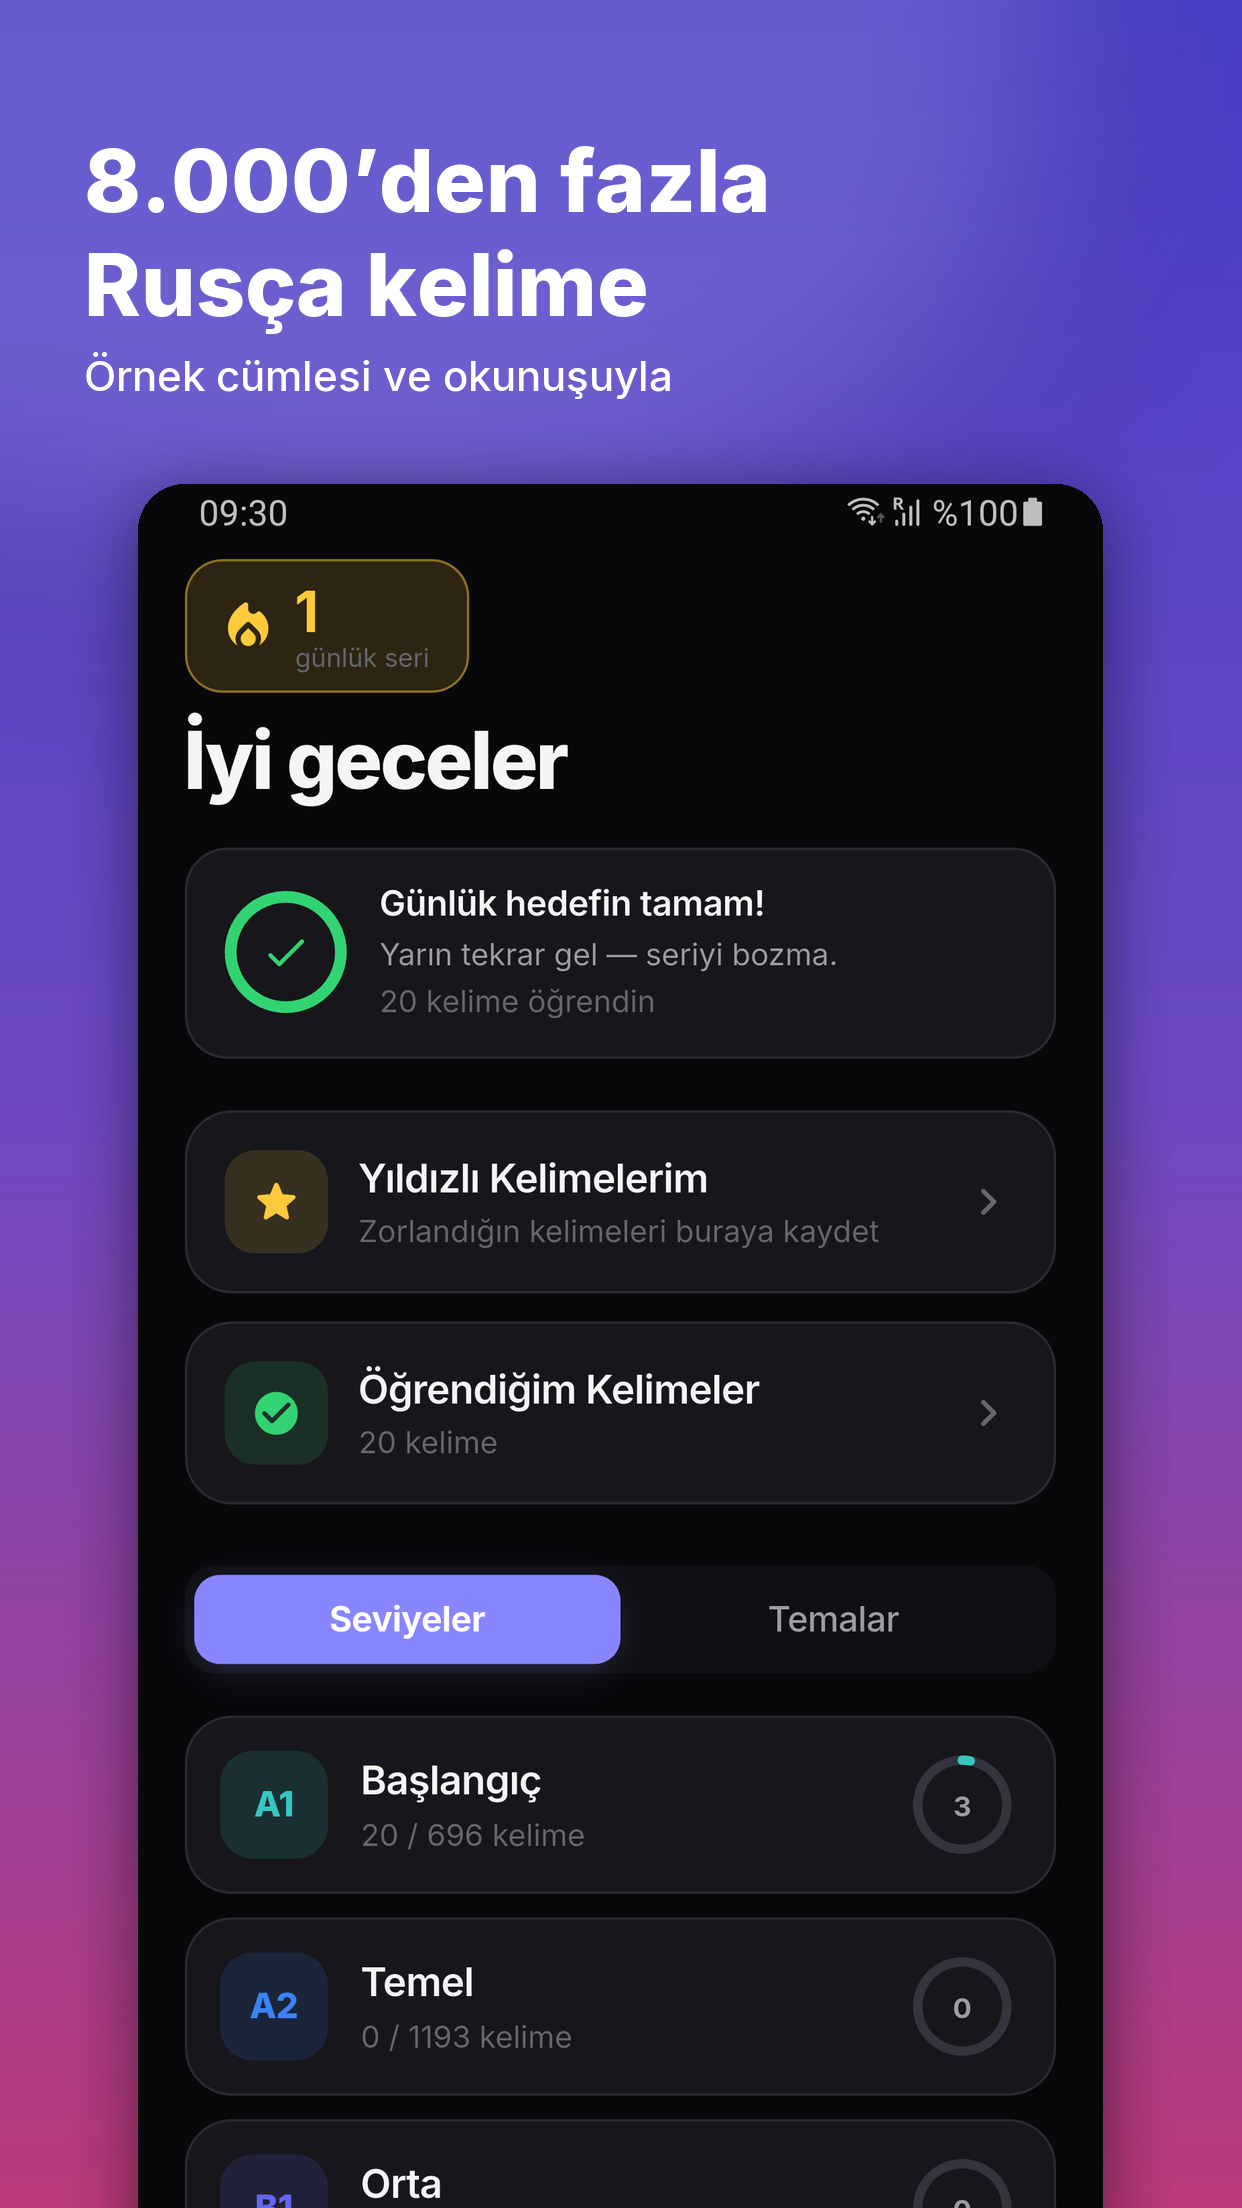
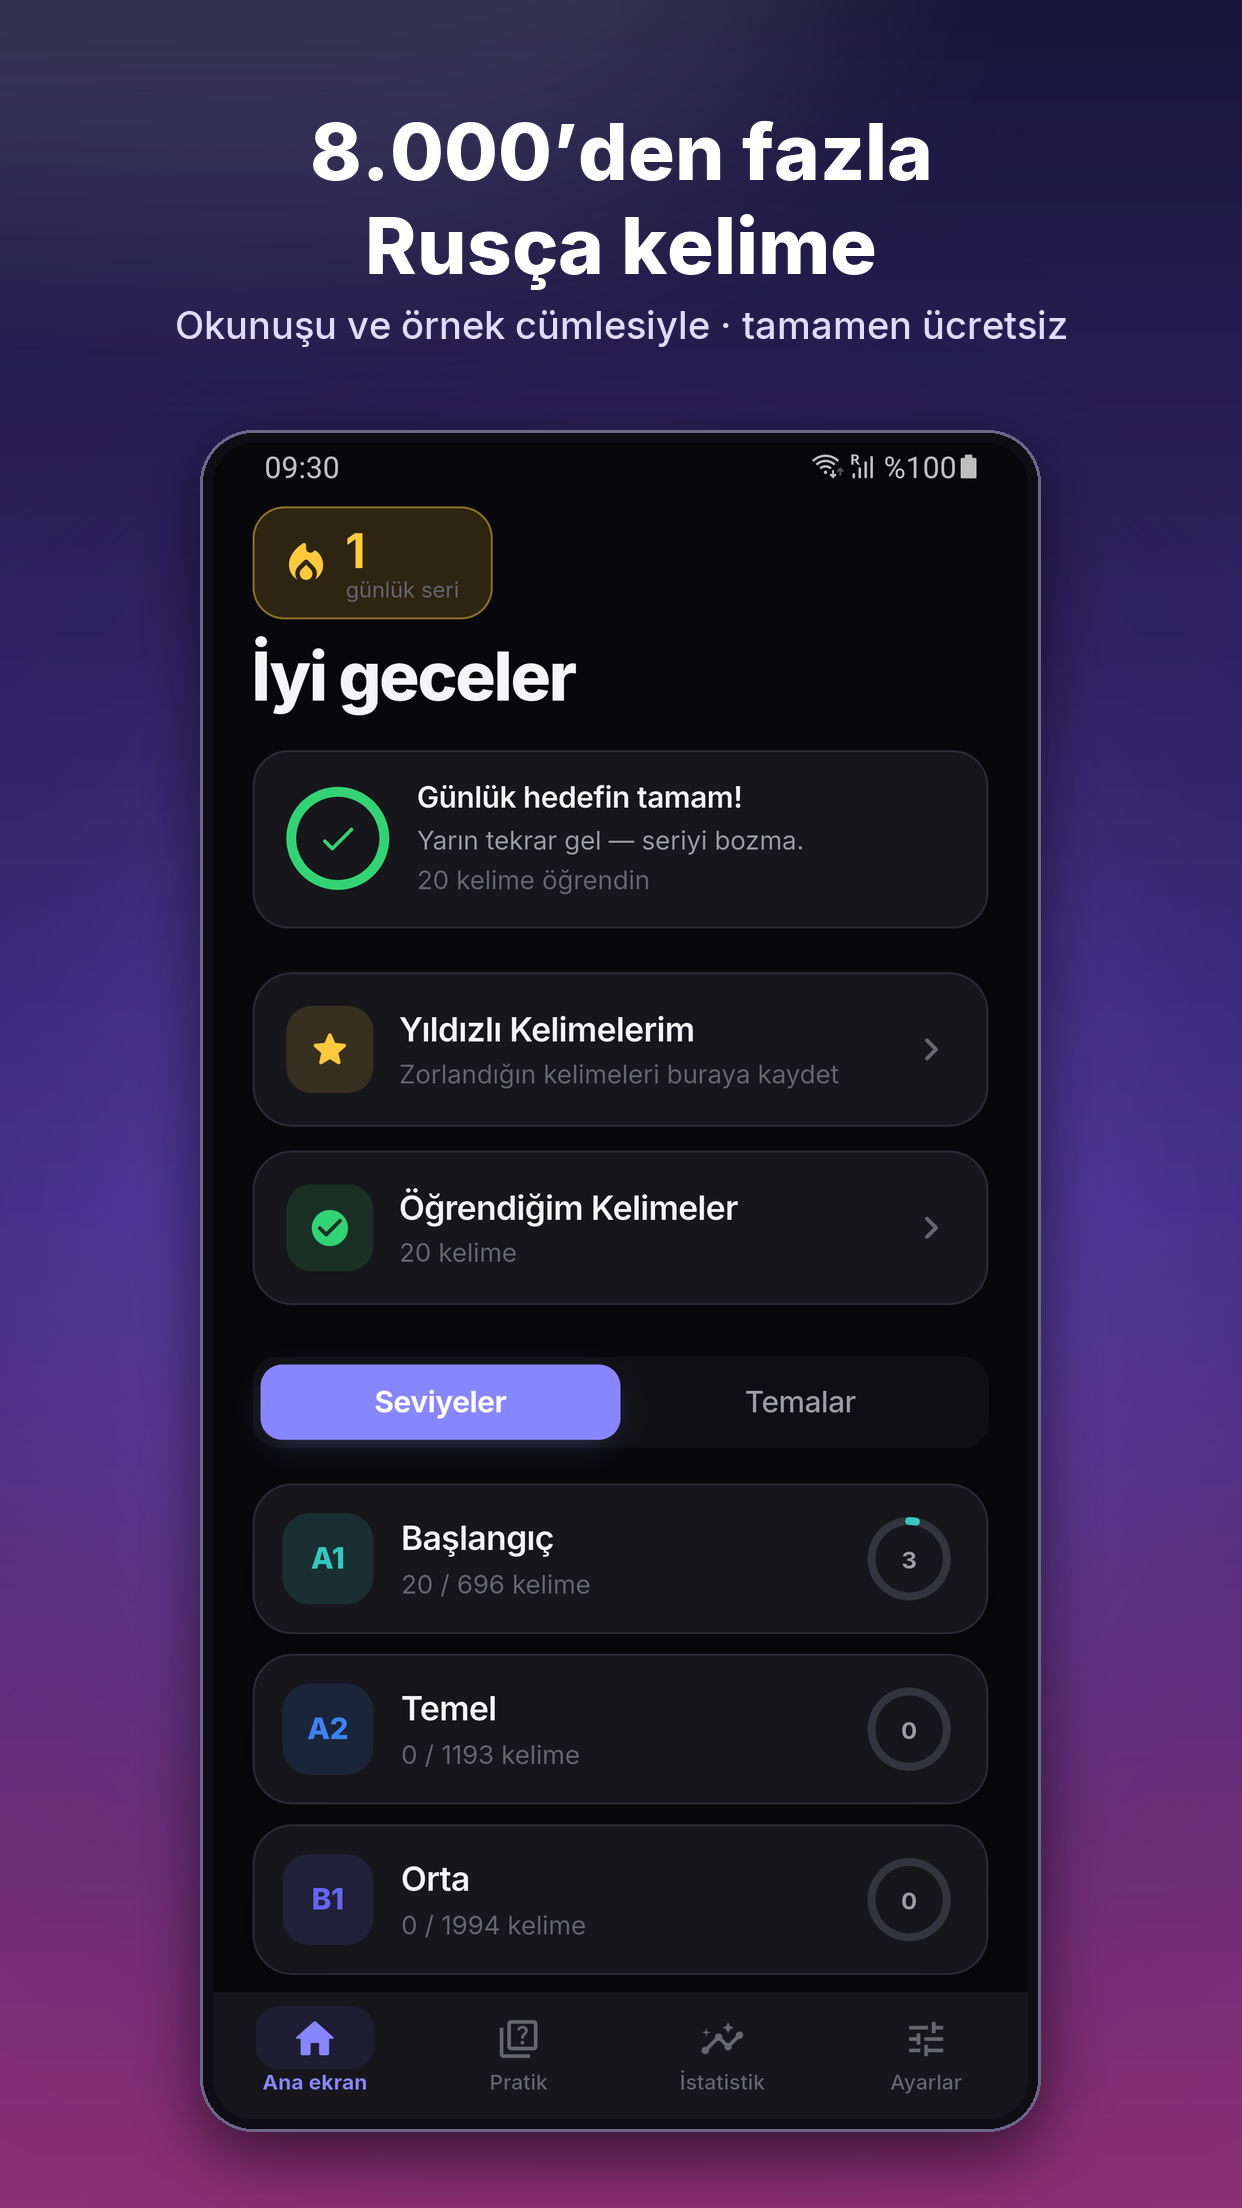
Magaza gorsellerini yeniden uret: tam ekran ve telefon cercevesi
Onceki ciktilarda telefon gorseli alttan kirpiliyordu, ekranin tamami
gorunmuyordu. Artik telefon metinden arta kalan yukseklige gore
olceklendiriliyor; hicbir kare kirpilmiyor.

Telefon koyu bir cerceveye oturtuldu (ince kenar isigi ve alt golgeyle).
Zemin daha derin bir geciste: koyu laciverten mora, altta pembe sicaklik;
telefonun arkasinda yumusak bir isik var. Metin ortalandi.

diff --git a/tool/make_store_shots.py b/tool/make_store_shots.py
@@ -1,15 +1,17 @@
 # -*- coding: utf-8 -*-
 """Google Play magaza ekran goruntulerini uretir.
 
-Ham ekran goruntusunu marka zeminine yerlestirip ustune tanitim metnini
-yaziyor. Ciktilar 1242x2208 (Play'in telefon gorseli icin bekledigi
-oranlardan biri) ve assets/store/ altina yaziliyor.
+Ham ekran goruntusunu telefon cercevesine oturtup marka zeminine
+yerlestiriyor ve ustune tanitim metnini yaziyor.
+
+Ekranin tamami gorunur: telefon, metinden arta kalan yukseklige gore
+olceklendiriliyor, kirpilmiyor. Ciktilar 1242x2208 (Play'in telefon
+gorseli oranlarindan biri) ve assets/store/ altina yaziliyor.
 
 Kullanim:
     python tool/make_store_shots.py <ham_goruntu_klasoru>
 """
 
-import io
 import os
 import sys
 
@@ -19,53 +21,49 @@ ROOT = os.path.dirname(os.path.dirname(os.path.abspath(__file__)))
 FONT_DIR = os.path.join(ROOT, 'assets', 'fonts')
 CIKTI = os.path.join(ROOT, 'assets', 'store')
 
-# Simgeyle ayni marka renkleri (bkz. tool/make_icon.py)
-BG_TOP = (72, 64, 200)
-BG_MID = (110, 74, 196)
-BG_BOTTOM = (188, 58, 122)
-
 GENIS, YUKSEK = 1242, 2208
 
-# (ham dosya, baslik, alt baslik)
-KARELER = [
-    ('04_ana_ekran.png', '8.000’den fazla\nRusça kelime',
-     'Örnek cümlesi ve okunuşuyla'),
-    ('01_kart_on.png', 'Kartı çevir,\nkaydır, öğren',
-     'Bildiğini sağa, tekrar edeceğini sola'),
-    ('05_bolumler.png', '20’şer kelimelik\nbölümler',
-     'Sırayla ilerle, her bölümü tamamla'),
-    ('08_yazma.png', 'Yazarak\npekiştir',
-     'Kelimeyi harf harf kur — kalıcı öğrenme'),
-    ('07_pratik.png', 'Testlerle\nkendini ölç',
-     'Günün testi, seviye testleri, yazma pratiği'),
-    ('06_temalar.png', 'Temalara ayrılmış\nkelimeler',
-     'Siyaset, ekonomi, sağlık, bilim ve dahası'),
-]
+# Zemin: koyu lacivertten mora, altta pembe bir sicaklik. Simgenin
+# renkleriyle ayni aile ama daha koyu; beyaz metin uzerinde rahat okunsun.
+BG_UST = (26, 22, 58)
+BG_ORTA = (66, 46, 138)
+BG_ALT = (140, 46, 116)
+
+# Telefon cercevesi
+CERCEVE = (14, 14, 20)
+CERCEVE_ISIK = (108, 104, 140)
 
 
 def zemin():
-    """Dikey marka gecisi + ust kosede yumusak isik."""
     kare = Image.new('RGB', (1, YUKSEK))
     ciz = ImageDraw.Draw(kare)
     for y in range(YUKSEK):
         t = y / (YUKSEK - 1)
-        if t < 0.5:
-            k = t / 0.5
-            c = tuple(int(BG_TOP[i] + (BG_MID[i] - BG_TOP[i]) * k)
+        if t < 0.55:
+            k = t / 0.55
+            c = tuple(int(BG_UST[i] + (BG_ORTA[i] - BG_UST[i]) * k)
                       for i in range(3))
         else:
-            k = (t - 0.5) / 0.5
-            c = tuple(int(BG_MID[i] + (BG_BOTTOM[i] - BG_MID[i]) * k)
+            k = (t - 0.55) / 0.45
+            c = tuple(int(BG_ORTA[i] + (BG_ALT[i] - BG_ORTA[i]) * k)
                       for i in range(3))
         ciz.point((0, y), fill=c)
     zem = kare.resize((GENIS, YUKSEK), Image.BICUBIC).convert('RGBA')
 
+    # Telefonun arkasindan gelen yumusak isik: duz gecisi canlandiriyor.
     isik = Image.new('RGBA', (GENIS, YUKSEK), (0, 0, 0, 0))
     ImageDraw.Draw(isik).ellipse(
-        [(-GENIS * 0.3, -YUKSEK * 0.22), (GENIS * 0.9, YUKSEK * 0.28)],
-        fill=(255, 255, 255, 38),
+        [(GENIS * 0.02, YUKSEK * 0.20), (GENIS * 0.98, YUKSEK * 0.92)],
+        fill=(150, 120, 255, 60),
     )
-    zem.alpha_composite(isik.filter(ImageFilter.GaussianBlur(GENIS * 0.09)))
+    zem.alpha_composite(isik.filter(ImageFilter.GaussianBlur(GENIS * 0.13)))
+
+    parlak = Image.new('RGBA', (GENIS, YUKSEK), (0, 0, 0, 0))
+    ImageDraw.Draw(parlak).ellipse(
+        [(-GENIS * 0.35, -YUKSEK * 0.20), (GENIS * 0.75, YUKSEK * 0.14)],
+        fill=(255, 255, 255, 30),
+    )
+    zem.alpha_composite(parlak.filter(ImageFilter.GaussianBlur(GENIS * 0.10)))
     return zem
 
 
@@ -79,19 +77,36 @@ def yuvarlat(im, yaricap):
     return out
 
 
+def cerceveye_oturt(ekran, kalinlik, yaricap):
+    """Ekran goruntusunu koyu bir telefon cercevesine yerlestirir."""
+    g, y = ekran.size
+    tam = (g + kalinlik * 2, y + kalinlik * 2)
+
+    govde = Image.new('RGBA', tam, (0, 0, 0, 0))
+    ciz = ImageDraw.Draw(govde)
+    ciz.rounded_rectangle([(0, 0), (tam[0] - 1, tam[1] - 1)],
+                          radius=yaricap + kalinlik, fill=CERCEVE)
+    # Cercevenin kenarindaki ince isik: metal govde hissi.
+    ciz.rounded_rectangle([(0, 0), (tam[0] - 1, tam[1] - 1)],
+                          radius=yaricap + kalinlik,
+                          outline=CERCEVE_ISIK, width=3)
+
+    govde.alpha_composite(yuvarlat(ekran, yaricap), (kalinlik, kalinlik))
+    return govde
+
+
 def golge(boyut, yaricap, bulanik, alfa):
-    g = Image.new('RGBA', (boyut[0] + bulanik * 4, boyut[1] + bulanik * 4),
+    pad = bulanik * 3
+    g = Image.new('RGBA', (boyut[0] + pad * 2, boyut[1] + pad * 2),
                   (0, 0, 0, 0))
     ImageDraw.Draw(g).rounded_rectangle(
-        [(bulanik * 2, bulanik * 2),
-         (bulanik * 2 + boyut[0], bulanik * 2 + boyut[1])],
+        [(pad, pad), (pad + boyut[0], pad + boyut[1])],
         radius=yaricap, fill=(0, 0, 0, alfa),
     )
-    return g.filter(ImageFilter.GaussianBlur(bulanik))
+    return g.filter(ImageFilter.GaussianBlur(bulanik)), pad
 
 
 def sar(ciz, metin, font, en_fazla):
-    """Metni verilen genislige gore satirlara boler."""
     satirlar = []
     for parca in metin.split('\n'):
         simdi = ''
@@ -111,35 +126,72 @@ def uret(ham_yol, baslik, alt, hedef):
     ciz = ImageDraw.Draw(tuval)
 
     f_baslik = ImageFont.truetype(
-        os.path.join(FONT_DIR, 'Inter-ExtraBold.ttf'), 86)
+        os.path.join(FONT_DIR, 'Inter-ExtraBold.ttf'), 78)
     f_alt = ImageFont.truetype(
-        os.path.join(FONT_DIR, 'Inter-Medium.ttf'), 42)
+        os.path.join(FONT_DIR, 'Inter-Medium.ttf'), 38)
 
-    kenar = 84
-    y = 128
-    for satir in sar(ciz, baslik, f_baslik, GENIS - kenar * 2):
-        ciz.text((kenar, y), satir, font=f_baslik, fill=(255, 255, 255))
-        y += 104
-    y += 14
-    for satir in sar(ciz, alt, f_alt, GENIS - kenar * 2):
-        ciz.text((kenar, y), satir, font=f_alt, fill=(255, 255, 255, 214))
-        y += 56
+    kenar = 92
+    en_fazla = GENIS - kenar * 2
 
-    # Telefon gorseli: kalan alana sigacak kadar
+    baslik_satir = sar(ciz, baslik, f_baslik, en_fazla)
+    alt_satir = sar(ciz, alt, f_alt, en_fazla)
+
+    # Metin blogu ustte, ortalanmis.
+    y = 104
+    for satir in baslik_satir:
+        w = ciz.textlength(satir, font=f_baslik)
+        ciz.text(((GENIS - w) / 2, y), satir, font=f_baslik,
+                 fill=(255, 255, 255))
+        y += 94
+    y += 10
+    for satir in alt_satir:
+        w = ciz.textlength(satir, font=f_alt)
+        ciz.text(((GENIS - w) / 2, y), satir, font=f_alt,
+                 fill=(226, 220, 255))
+        y += 52
+
+    # Kalan alan telefonun: ekranin tamami sigsin, kirpilmasin.
+    ust_bosluk = y + 76
+    alt_bosluk = 76
+    alan_y = YUKSEK - ust_bosluk - alt_bosluk
+    alan_x = GENIS - kenar * 2
+
+    kalinlik, yaricap = 13, 40
     ham = Image.open(ham_yol).convert('RGB')
-    ust = y + 78
-    kullanilabilir = YUKSEK - ust + 260   # alt taraf tasabilir, tuval kirpar
-    oran = min((GENIS - kenar * 2) / ham.width, kullanilabilir / ham.height)
+    oran = min((alan_x - kalinlik * 2) / ham.width,
+               (alan_y - kalinlik * 2) / ham.height)
     yeni = (int(ham.width * oran), int(ham.height * oran))
-    telefon = yuvarlat(ham.resize(yeni, Image.LANCZOS), 46)
+    telefon = cerceveye_oturt(ham.resize(yeni, Image.LANCZOS),
+                              kalinlik, yaricap)
 
-    x = (GENIS - yeni[0]) // 2
-    g = golge(yeni, 46, 34, 130)
-    tuval.alpha_composite(g, (x - 68, ust - 54))
-    tuval.alpha_composite(telefon, (x, ust))
+    tg, ty = telefon.size
+    x = (GENIS - tg) // 2
+    # Kalan bosluga dikeyde ortala.
+    ty0 = ust_bosluk + max(0, (alan_y - ty) // 2)
 
-    tuval.convert('RGB').save(hedef, quality=95)
+    g, pad = golge((tg, ty), yaricap + kalinlik, 30, 145)
+    tuval.alpha_composite(g, (x - pad, ty0 - pad + 22))
+    tuval.alpha_composite(telefon, (x, ty0))
+
+    tuval.convert('RGB').save(hedef, quality=96)
     return hedef
+
+
+# (ham dosya, baslik, alt baslik)
+KARELER = [
+    ('04_ana_ekran.png', '8.000’den fazla\nRusça kelime',
+     'Okunuşu ve örnek cümlesiyle · tamamen ücretsiz'),
+    ('01_kart_on.png', 'Kartı çevir,\nkaydır, öğren',
+     'Bildiğin sağa, tekrar edeceğin sola'),
+    ('05_bolumler.png', '20’şer kelimelik\nbölümler',
+     'Sırayla ilerle, her bölümü tamamlayarak'),
+    ('08_yazma.png', 'Yazarak\npekiştir',
+     'Kelimeyi harf harf kur — kalıcı öğrenme'),
+    ('07_pratik.png', 'Testlerle\nkendini ölç',
+     'Günün testi, seviye testleri, yazma pratiği'),
+    ('06_temalar.png', 'Temalara ayrılmış\nkelimeler',
+     'Siyaset, ekonomi, sağlık, bilim ve dahası'),
+]
 
 
 def main():
